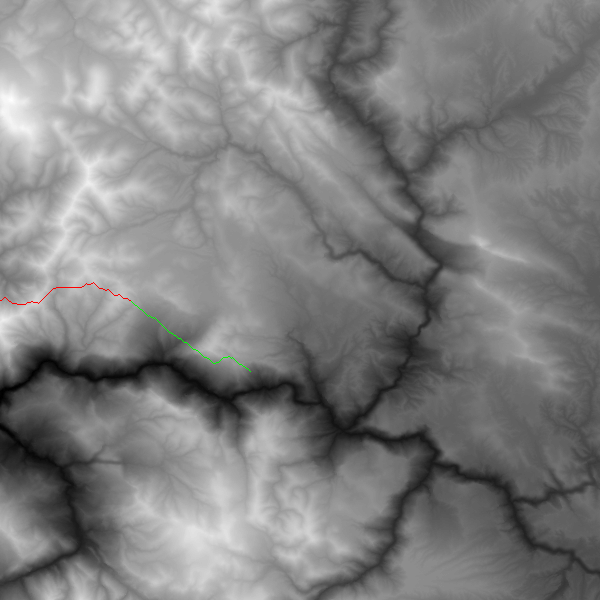
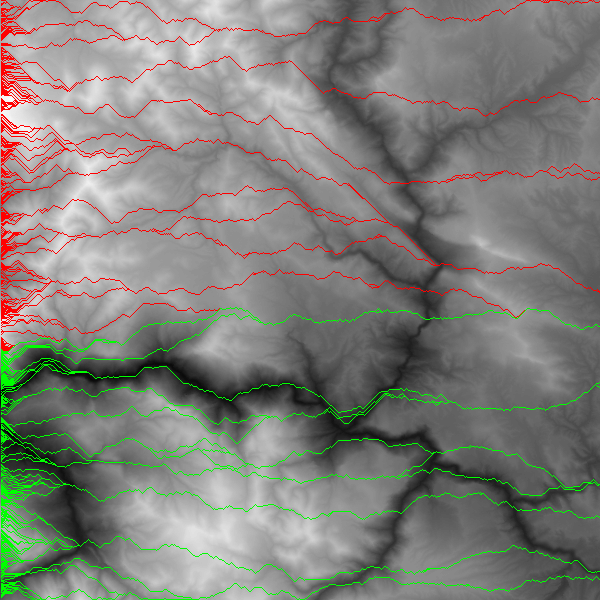
correct paths. need to find shortest path

diff --git a/pathfinder.py b/pathfinder.py
@@ -44,67 +44,67 @@ def create_2d_array_from_list(data_points, rows, columns):
 
 
 def greedy_walk(data_array, rows, columns):
-    y = 300
-    # start path at [0, y]
-    short_path = [[0, y]]
-    # for x in range(columns-1):
-    for x in range(250):
-        current_elevation = data_array[x][y]
-        # bounds for top of the map
-        upright_elevation = data_array[x+1][min(y+1, columns-1)]
-        right_elevation = data_array[x+1][y]
-        # bounds for bottom of the map
-        downright_elevation = data_array[x+1][max(y-1, 0)]
+    short_path = []
+    shortest_path = []
+    for y in range(rows-1):
+        # restart elevation change count for each path
+        total_elevation_change = 0
 
-        options = [abs(current_elevation - upright_elevation),
-                   abs(current_elevation - right_elevation),
-                   abs(current_elevation - downright_elevation)]
+        # for x in range(columns-1):
+        for x in range(columns-1):
+            current_elevation = data_array[y][x]
+            # bounds for top of the map. min(y+1, columns-1)
+            upright_elevation = data_array[max(y-1, 0)][x+1]
+            right_elevation = data_array[y][x+1]
+            # bounds for bottom of the map. max(y-1, 0)
+            downright_elevation = data_array[min(y+1, columns-1)][x+1]
 
-        # logic for finding least elevation change of 3 options
-        # if all options are unique
-        if options[0] != options[1] and options[0] != options[2] and options[1] != options[2]:
-            greedy_option = min(options)
-        # if all options are equal
-        elif options[0] == options[1] and options[1] == options[2]:
-            greedy_option = options[1]
+            options = [abs(current_elevation - upright_elevation),
+                       abs(current_elevation - right_elevation),
+                       abs(current_elevation - downright_elevation)]
+        
+            # Default to an invalid index
+            greedy_option_index = 1
 
-        # if only option 0 equals option 1
-        elif options[0] == options[1]:
-            greedy_option = options[1]
-            if options[1] > options[2]:
-                greedy_option = options[2]
+            # If all options are distinct
+            if options[0] != options[1] and options[0] != options[2] and options[1] != options[2]:
+                greedy_option_index = options.index(min(options))
+            # If all options are equal
+            elif options[0] == options[1] and options[1] == options[2]:
+                greedy_option_index = 1
+            # If only option 0 equals option 1
+            elif options[0] == options[1]:
+                greedy_option_index = 1
+                if options[1] > options[2]:
+                    greedy_option_index = 2
+            # If only option 2 equals option 1
+            elif options[1] == options[2]:
+                greedy_option_index = 1
+                if options[1] > options[0]:
+                    greedy_option_index = 0
+            # If options 0 equals option 2
+            elif options[0] == options[2]:
+                greedy_option_index = 0 if random.choice([0, 2]) == 0 else 2
+                if options[1] < options[0]:
+                    greedy_option_index = 1
 
-        # if only option 2 equals option 1
-        elif options[1] == options[2]:
-            greedy_option = options[1]
-            if options[1] > options[0]:
-                greedy_option = options[0]
+            # Move to greedy option
+            if greedy_option_index == 0:
+                y += -1
+            elif greedy_option_index == 1:
+                y += 0
+            elif greedy_option_index == 2:
+                y += 1
 
-        # if options 0 equals option 2
-        elif options[0] == options[2]:
-            greedy_option = random.choice([options[0], options[2]])
-            if options[1] < options[0]:
-                greedy_option = options[1]
-
-        # move to greedy option
-        if greedy_option == options[0]:
-            y += 1
-        elif greedy_option == options[1]:
-            y += 0
-        elif greedy_option == options[2]:
-            y += -1
-
-        if x < 11:
-            print(f'current_elevation: {current_elevation}')
-            print(f'up: {upright_elevation} right: {right_elevation} down: {downright_elevation}')
-            print(options)
-            print(f'option picked: {greedy_option}')
-            print(f'x: {x+1} y: {y}')
-
-        # start appending at index 1 instead of 0.
-        short_path.append([x+1, y])
-
-    return short_path
+            # start appending at index 1 instead of 0.
+            short_path.append([x+1, y])
+            
+            total_elevation_change += options[greedy_option_index]
+        shortest_path.append(total_elevation_change)
+        
+    shortest_path_index = shortest_path.index(min(shortest_path))
+    print(f'shortest path index: {shortest_path_index}')
+    return short_path, shortest_path_index
 
 
 def draw_short_path(text_file_path, input_img_path, output_img_path):
@@ -131,15 +131,23 @@ def draw_short_path(text_file_path, input_img_path, output_img_path):
 
     # Using Greedy Algorithm
     data_array = create_2d_array_from_list(data_points, rows, columns)
-    # print(data_array)
-    greedy_walk_array = greedy_walk(data_array, rows, columns)
     
-    # print(greedy_walk_array)
+    greedy_walk_paths = greedy_walk(data_array, rows, columns)
+    # print(greedy_walk_paths)
 
-    for index, location in enumerate(greedy_walk_array):
-        pixels[location[0], location[1]] = (255, 0, 0)  # set pixel to red
-        if index > 130:
+    for index, location in enumerate(greedy_walk_paths[0]):
+        
+        if greedy_walk_paths[1]*(columns-1) <= index < 2*greedy_walk_paths[1]*(columns-1):
+            print(f'green: {index} location: {location}')
             pixels[location[0], location[1]] = (0, 255, 0)  # set pixel to green
+        else:
+            pixels[location[0], location[1]] = (255, 0, 0)  # set pixel to red
+
+    print(greedy_walk_paths[0])
+    print(greedy_walk_paths[0][1])
+    # if index == greedy_walk_paths[1]:
+    #         pixels[location[0], location[1]] = (0, 255, 0)  # set pixel to green
+    
     # Save the modified image
     image.save(output_img_path)
 
@@ -169,13 +177,13 @@ def create_img_from_elevation(text_file_path, output_image_path):
     pixels = image.load()
     # Loop through each data point with index and element
     for i, data_point in enumerate(data_points):
-        # Clever way of getting the x-index with using the 
-        # modulo of the image_size so it sets to zero after 
+        # Clever way of getting the x-index with using the
+        # modulo of the image_size so it sets to zero after
         # moving on to the next line below
         x = i % image_size
 
-        # Clever way of getting the y-index by dividing the 
-        # index by the image size and rounding down. 
+        # Clever way of getting the y-index by dividing the
+        # index by the image size and rounding down.
         y = i // image_size
 
         # use the function to get the grayscale value
@@ -185,7 +193,7 @@ def create_img_from_elevation(text_file_path, output_image_path):
 
         # Show processing progress
         # if x % image_size - 1 == 0 and y % 10 == 0:
-        #     print(f"Finished processing line {y + 1} out of {image_size}")
+        # print(f"Finished processing line {y + 1} out of {image_size}")
 
     # Apply contrast stretching to the image
     image = contrast_stretch(image)
@@ -202,11 +210,16 @@ create_img_from_elevation(small_input_file, small_output_image)
 small_one_path_output_image = 'small_one_path_output_image.png'
 draw_short_path(small_input_file, small_output_image, small_one_path_output_image)
 
-large_input_file = 'elevation_large.txt'
-large_output_image = 'large_elevation_image.png'
-create_img_from_elevation(large_input_file, large_output_image)
+# large_input_file = 'elevation_large.txt'
+# large_output_image = 'large_elevation_image.png'
+# create_img_from_elevation(large_input_file, large_output_image)
 # short_path_output_image = 'short_path_output_image.png'
 # draw_short_path(large_input_file, large_output_image, short_path_output_image)
 
 # Testing
 
+test_input_file = 'test.txt'
+test_output_image = 'test_image.png'
+create_img_from_elevation(test_input_file, test_output_image)
+test_one_path_output_image = 'test_one_path_output_image.png'
+draw_short_path(test_input_file, test_output_image, test_one_path_output_image)
